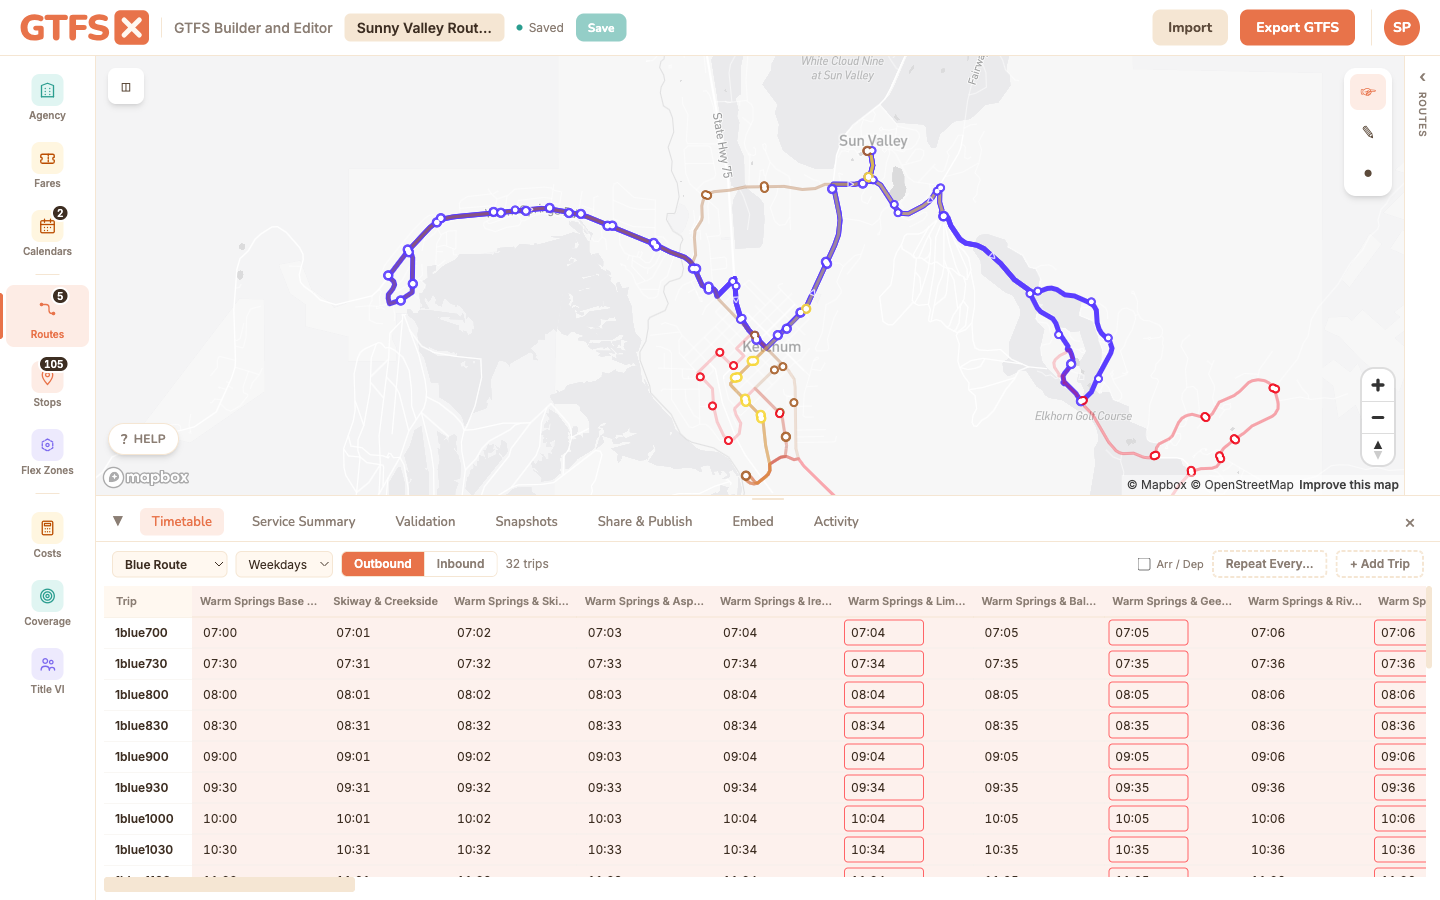
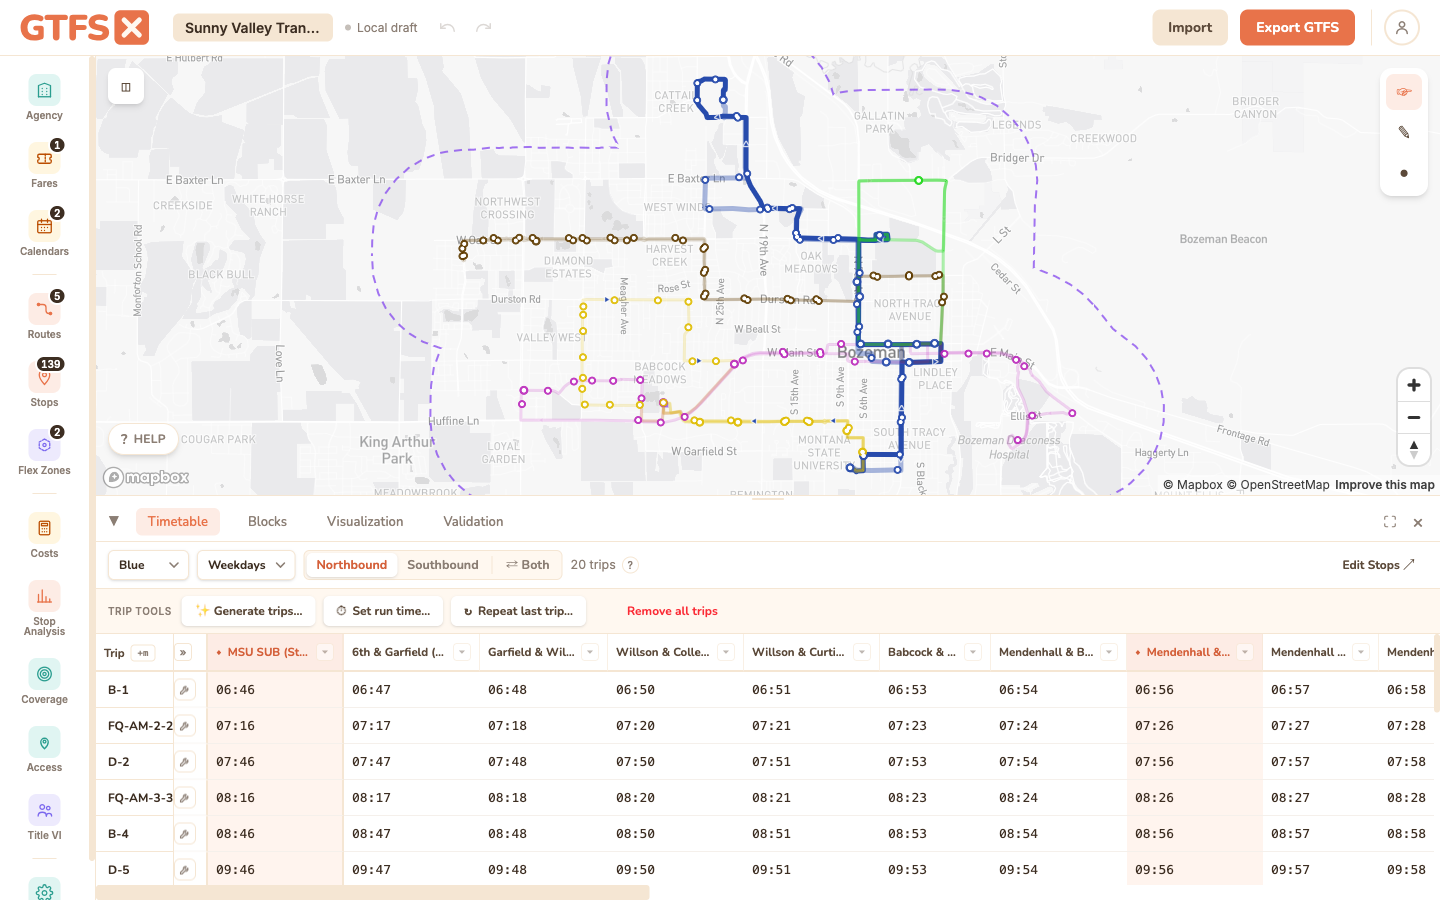
Timetable refresh: match owner reference + refresh docs screenshots
- Toolbar: left-group "Remove all trips" with the other Trip tools (owner
  reference), instead of right-aligned. Everything else already matched the
  reference element-for-element.
- Regenerate the three stale timetable docs screenshots from the new UI:
  - timetables-and-trips-hero.png (1440x900) — new two-row toolbar + grid.
  - timetable-interpolate-controls.png (934x490) — the per-trip actions menu
    (self-labeling), replacing the old hand-annotated action-icon row.
  - service-planning-generate.png (1280x860) — the Generate trips inline drawer,
    replacing the old modal.
- Refresh the adjacent docs copy that the new screenshots contradicted (renamed
  / moved controls): Repeat Every… → Repeat last trip…, Arr/Dep toggle →
  per-column Separate arrival & departure, interpolate/estimate now in the trip
  actions menu, + Add trip is a grid row, Generate service → Generate trips.

diff --git a/public/docs/timetables-and-trips/index.html b/public/docs/timetables-and-trips/index.html
@@ -68,8 +68,8 @@
       <p class="lede">The timetable editor is a grid: each row is a trip, each column is a stop, each cell is an arrival/departure time. Type the first stop's time, auto-interpolate the rest from the route geometry, and use duplicate-with-offset to spawn the repeating service. For headway-only service, the frequency editor writes <code>frequencies.txt</code> instead.</p>
 
       <figure>
-        <img src="/assets/docs/timetables-and-trips-hero.png" alt="GTFS·X editor showing the Blue Route's timetable on the Sunny Valley feed — service-pattern tabs at top, columns of stops, rows of trips with arrival times." loading="lazy" />
-        <figcaption>The Timetable tab for the Sunny Valley Blue Route. Service-pattern tabs (Weekdays / Holidays) at top; the trip grid below with one row per trip and one column per stop.</figcaption>
+        <img src="/assets/docs/timetables-and-trips-hero.png" alt="GTFS·X editor showing the Blue Route's timetable on the Sunny Valley feed — a two-row toolbar (route, service and direction pickers above; the Generate / Set run time / Repeat trip tools below), then columns of stops and rows of trips with arrival times." loading="lazy" />
+        <figcaption>The Timetable tab for the Sunny Valley Blue Route. A two-row header — route, service and direction/split controls on top, the Trip tools row below — sits over the trip grid, one row per trip and one column per stop.</figcaption>
       </figure>
 
       <h2 id="the-grid">The trip grid</h2>
@@ -80,39 +80,39 @@
       <h2 id="stop-states">Stop states: timed, interpolated, skipped</h2>
       <p>Every cell in the grid is one of three states. The state decides what (if anything) the export writes for that trip at that stop.</p>
       <ul>
-        <li><strong>Timed.</strong> Type a time into the cell. The trip stops there at a known clock time, and the export writes an explicit <code>arrival_time</code> and <code>departure_time</code>. (Turn on the Arr / Dep toggle to author the two separately when there's dwell.)</li>
+        <li><strong>Timed.</strong> Type a time into the cell. The trip stops there at a known clock time, and the export writes an explicit <code>arrival_time</code> and <code>departure_time</code>. (Turn on <strong>Separate arrival &amp; departure</strong> from a stop column's ▾ menu to author the two separately when there's dwell.)</li>
         <li><strong>Interpolated.</strong> Clear the cell so it's blank. The trip still serves the stop, but you're leaving its time for the trip planner to interpolate from the timed stops on either side. The export writes a row with blank times and <code>timepoint=0</code>. A trip's first and last served stops must be timed (not blank), so a downstream consumer has anchors to interpolate between.</li>
         <li><strong>Skipped.</strong> Hover the cell and click the small <strong>&times;</strong> at its top-right corner. The cell then shows a struck-through <s>SKIP</s> chip: this trip does not serve that stop, and the export writes no <code>stop_times</code> row for it at all. Click the SKIP chip to restore the stop to served. Skipping is how one trip can serve a different set of stops than its siblings on the same route (a short-turn, or an express run that bypasses local stops).</li>
       </ul>
       <p>The <strong>Estimate times</strong> and <strong>Interpolate times</strong> tools respect skipped stops: they compute travel time across every stop the vehicle physically passes (so the served stops downstream still get correct times) but only fill the served cells, leaving skipped stops skipped.</p>
 
       <h2 id="creating-trips">Creating trips</h2>
-      <p>Click <strong>+ Add Trip</strong> to insert a new row. Each trip needs:</p>
+      <p>Click the <strong>+ Add trip</strong> row at the bottom of the grid to insert a new row. Each trip needs:</p>
       <ul>
         <li><strong>Service pattern</strong> — pick from the patterns defined in the <a href="/docs/service-calendars/">Calendars</a> panel.</li>
         <li><strong>Direction</strong> — 0 or 1; the toggle at the top of the grid already filters.</li>
         <li><strong>Headsign</strong> — the destination text riders see ("Downtown via Main", "Airport").</li>
         <li><strong>First stop time</strong> — type into the leftmost cell. Everything downstream interpolates from this.</li>
       </ul>
-      <p>To create a series of trips at a fixed headway, fill in one trip, then click <strong>Repeat Every…</strong>. Enter a headway (15 min, 30 min, etc.) and a count; the editor spawns N copies of the trip, each offset by the headway. Much faster than typing a full weekday schedule by hand.</p>
+      <p>To create a series of trips at a fixed headway, fill in one trip, then click <strong>Repeat last trip…</strong> in the Trip tools row. Enter a headway (15 min, 30 min, etc.) and a count; the editor spawns N copies of the trip, each offset by the headway. Much faster than typing a full weekday schedule by hand.</p>
 
       <h2 id="interpolation">Interpolation</h2>
-      <p>Once the first stop time is set, click the interpolate button (arrow icon at the top of the trip row) to auto-fill intermediate stop times. The editor computes the segment lengths from the route shape, divides by an assumed average speed, and fills the cells.</p>
+      <p>Once the first stop time is set, open the trip's <strong>actions menu</strong> (the wrench button beside the trip ID) and choose <strong>Interpolate stop times</strong> (⟿) to auto-fill intermediate stop times. The editor computes the segment lengths from the route shape, divides by an assumed average speed, and fills the cells.</p>
       <figure>
-        <img src="/assets/docs/timetable-interpolate-controls.png" alt="The interpolate control (arrow icon at the top of a trip row) and the Estimate-times dialog used to auto-fill stop times from the route geometry." loading="lazy" />
-        <figcaption>Interpolate / Estimate-times controls in the timetable.</figcaption>
+        <img src="/assets/docs/timetable-interpolate-controls.png" alt="The per-trip actions menu in the timetable, opened from the wrench button beside a trip — Interpolate stop times, Estimate times, Duplicate trip, Apply to all trips, and Delete trip." loading="lazy" />
+        <figcaption>Per-trip actions — Interpolate, Estimate times, Duplicate, Apply to all, Delete — in the trip's actions menu (the wrench beside each trip ID).</figcaption>
       </figure>
       <p>Default speed is configurable per trip. The default is reasonable for urban fixed-route bus; for express routes or rail you'll want a higher number. After interpolating, refine individual cells by typing — only the cell you edit changes, the surrounding interpolation stays put.</p>
 
       <h2 id="estimate-times">Estimate times from the road network</h2>
       <p>Interpolation divides the shape's <em>distance</em> by an assumed speed. <strong>Estimate times</strong> goes a step further: it asks Mapbox for the actual <em>driving time</em> along the road network the route follows, then turns that into a full schedule for the trip. Use it when you've drawn a snapped route and want a realistic first pass at the timetable instead of a constant-speed sketch.</p>
-      <p>Click the <strong>Estimate</strong> action on a trip row (the road-network icon) to open the dialog. Three inputs:</p>
+      <p>Choose <strong>Estimate times…</strong> (◷) from the trip's actions menu to open the dialog. Three inputs:</p>
       <ul>
         <li><strong>Start time</strong> — when the trip departs its first stop. Pre-filled from the trip's existing first time, or <code>08:00</code> for a fresh trip. Everything else is laid out forward from here.</li>
         <li><strong>Dwell / stop (seconds)</strong> — how long the vehicle waits at each intermediate stop for boarding. Added to the driving time between stops. Default 18 seconds. The first stop gets the start time exactly; the last stop gets no dwell (the trip ends on arrival).</li>
         <li><strong>Speed factor</strong> — a multiplier on the road-network driving time to account for traffic, signals, and acceleration that the car-based <code>driving</code> profile doesn't model. Default 1.3 (i.e. the schedule runs 30% slower than free-flow car). Raise it for congested urban service or frequent stops; lower it toward 1.0 for limited-stop or express running.</li>
       </ul>
-      <p>Click <strong>Estimate</strong> in the dialog and the editor matches the trip's drawn shape to the road network, projects each stop onto that matched path to get the cumulative travel time at every stop, applies the dwell and speed factor, and writes arrival/departure times across the whole row. Then use the apply-to-all-trips action (⇶) on that row to push the same stop sequence and run/dwell timing to the route's other trips — each keeps its own start time, so headways and departures are untouched.</p>
+      <p>Click <strong>Estimate</strong> in the dialog and the editor matches the trip's drawn shape to the road network, projects each stop onto that matched path to get the cumulative travel time at every stop, applies the dwell and speed factor, and writes arrival/departure times across the whole row. Then use the <strong>Apply to all trips…</strong> action (⇶) from that trip's menu to push the same stop sequence and run/dwell timing to the route's other trips — each keeps its own start time, so headways and departures are untouched.</p>
       <p>The estimate needs a drawn route shape and at least two stops; without a snapped shape there's no road geometry to time against. It's a online call (same Map Matching API as snap-to-road), so it needs an internet connection. If Mapbox can't match the path the dialog says so and leaves the times for you to set by hand.</p>
       <p>Treat the output as a first draft. Mapbox's driving profile is car free-flow with a flat fudge factor — it doesn't know your bus's actual dwell distribution, layover policy, or peak-direction congestion. Refine the cells that matter (timepoints especially) after estimating; the surrounding values stay put.</p>
 

diff --git a/public/docs/service-planning/index.html b/public/docs/service-planning/index.html
@@ -62,10 +62,10 @@
       <p>The scheduling tools live in the <strong>bottom rail</strong> that runs along the bottom of the editor, beside the validation and visualization panels. The map stays in the center the whole time, so you can keep the route on screen while you schedule it. Click the <strong>Timetable</strong> tab to generate and edit trips, or the <strong>Blocks</strong> tab to chain those trips onto vehicles; pick a route and service day inside each one. Drag the rail's top edge to give it more height, or use the <strong>maximize</strong> button in the rail header to expand it to the full editor when you need room (the map collapses; click again to restore the split). Variants are forked and compared from the header, not the rail.</p>
 
       <h2 id="generate-service">Generate a timetable</h2>
-      <p>Drawing a route gives you a shape and stops, but no trips. Rather than hand-entering every departure, open the <strong>Timetable</strong> tab and use <strong>Generate service</strong>. Set a window (say 06:00 to 22:00), a headway ("a bus every 30 min"), and an end-to-end run time, and GTFS·X lays out evenly-spaced trips for you. A live count ("Creates 33 trips") updates as you type.</p>
+      <p>Drawing a route gives you a shape and stops, but no trips. Rather than hand-entering every departure, open the <strong>Timetable</strong> tab and use the <strong>Generate trips…</strong> tool in the Trip tools row. Set a window (say 06:00 to 22:00), a headway ("a bus every 30 min"), and an end-to-end run time, and GTFS·X lays out evenly-spaced trips for you. A live count ("Creates 33 trips") updates as you type.</p>
       <figure>
         <img src="/assets/docs/service-planning-generate.png" alt="The Generate service form in the timetable: run-from and to times, a headway with preset chips, an end-to-end run time pre-filled from the route shape, and a live 'Creates 33 trips' preview." loading="lazy" />
-        <figcaption>Generate service reads like a sentence. The end-to-end run time is pre-filled from the route's shape length, so the common case is just a window plus a headway.</figcaption>
+        <figcaption>Generate trips reads like a sentence, in an inline drawer. The end-to-end run time is pre-filled from the route's shape length, so the common case is just a window plus a headway.</figcaption>
       </figure>
       <p>The run time is interpolated across intermediate stops by shape distance, and the first and last stops become timed points. The result is ordinary trips and <code>stop_times</code> you can edit by hand in the grid, copy by service day, or re-time later. Prefer a compact, headway-based feed? Switch the form to <strong>Frequency-based</strong> and it writes one reference trip plus a <code>frequencies.txt</code> window instead of individual trips.</p>
 

diff --git a/src/components/timetable/TimetableToolbar.tsx b/src/components/timetable/TimetableToolbar.tsx
@@ -231,7 +231,9 @@ export function TimetableToolbar(props: ToolbarProps) {
         <Button variant="secondary" icon="↻" title="Add copies of the last trip at a set interval" onClick={() => onTool('repeat')} disabled={tripCount === 0}>
           Repeat last trip…
         </Button>
-        <span className="flex-1 min-w-[12px]" />
+        {/* Danger action sits with the other trip tools (owner reference), not
+            pushed to the far right — a small gap sets it apart. */}
+        <span className="w-3 shrink-0" aria-hidden="true" />
         <Button variant="ghost" danger onClick={() => onTool('removeall')} disabled={tripCount === 0}>
           Remove all trips
         </Button>